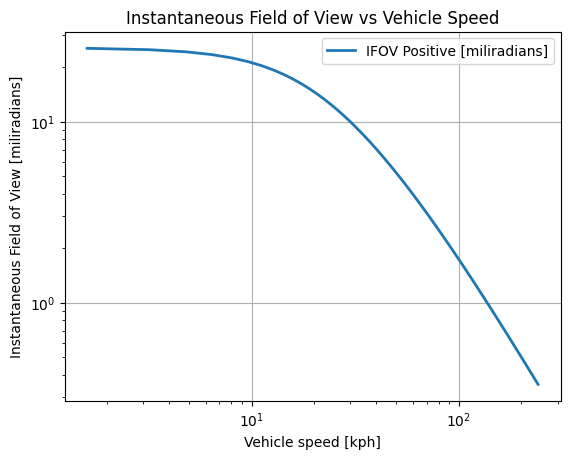
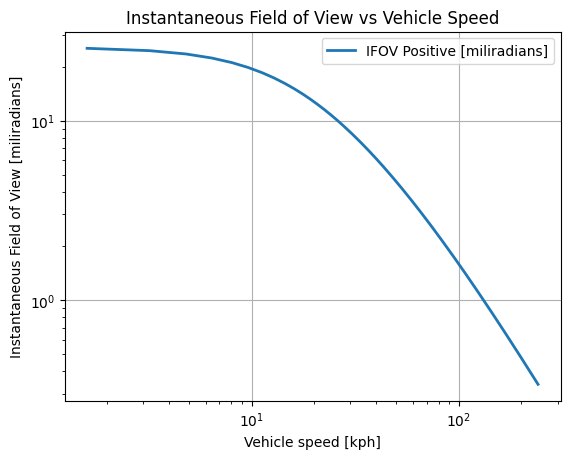
added functional calculate distance

diff --git a/lookahead_calculator.py b/lookahead_calculator.py
@@ -1,5 +1,3 @@
-# lookahead_calculator.py
-
 import numpy as np
 import matplotlib.pyplot as plt
 import torch
@@ -8,23 +6,28 @@ from detr.model_loader import load_detr_model
 import os
 from matplotlib import cm
 
+# Cargar el modelo (si es necesario para procesamiento adicional)
 model = load_detr_model()
 
-def calculate_lookahead_distance(mu, t, l, B, image_path=None):
-    # Parámetros fijos para el modelo
+# Asegurarse de que exista el directorio de salida
+output_directory = 'outputs'
+if not os.path.exists(output_directory):
+    os.makedirs(output_directory)
+
+def calculate_lookahead_distance(mu, t, l, B, cog, wheelbase, turning_angle, image_path=None):
+    # Parámetros fijos para el modelo (algunos se han convertido en parámetros de la función)
     g = 9.81
-    a = -9
-    Tper = 0.1
-    Tact = 0.25
-    d_offset = 2
-    w = 1.82
-    cog = 0.767
-    turningCar = 7.62
+    a = -9  # Desaceleración durante el frenado [m/s^2]
+    Tper = t  # Tiempo de percepción
+    Tact = l  # Latencia
+    d_offset = B  # Distancia buffer [m]
+    w = wheelbase  # Ancho del vehículo
+    turningCar = turning_angle  # Ángulo de giro del vehículo
 
     # Rangos de velocidad
-    v_mph = np.arange(1, 151)
-    v_kph = v_mph * 1.609
-    v_mtps = v_mph * (1609.34 / 3600)
+    v_mph = np.arange(1, 151)  # Velocidades de 1 a 150 mph
+    v_kph = v_mph * 1.609  # Conversion de mph a kph
+    v_mtps = v_mph * (1609.34 / 3600)  # Conversion de mph a metros por segundo
 
     # Inicializar distancias para la primera gráfica
     d_per = np.zeros_like(v_mtps)
@@ -39,15 +42,15 @@ def calculate_lookahead_distance(mu, t, l, B, image_path=None):
 
     # Calcular las distancias de frenado y maniobra para la primera gráfica
     for v in range(1, 151):
-        d_per[v-1] = v_mtps[v-1] * (2 * Tper)
-        d_act[v-1] = v_mtps[v-1] * Tact
-        d_brake[v-1] = -v_mtps[v-1]**2 / (2 * a)
-        d_look_stop[v-1] = d_offset + d_per[v-1] + d_act[v-1] + d_brake[v-1]
-        K_roll[v-1] = (g * (w / 2)) / (cog * v_mtps[v-1]**2)
-        K_slip[v-1] = (mu * g) / (v_mtps[v-1]**2)
-        turning[v-1] = max(1 / (min(K_roll[v-1], K_slip[v-1])), turningCar)
-        d_swerve[v-1] = np.real(np.sqrt(turning[v-1]**2 - (turning[v-1] - w)**2))
-        d_look_swerve[v-1] = d_offset + d_per[v-1] + d_act[v-1] + d_swerve[v-1]
+        d_per[v - 1] = v_mtps[v - 1] * (2 * Tper)
+        d_act[v - 1] = v_mtps[v - 1] * Tact
+        d_brake[v - 1] = -v_mtps[v - 1] ** 2 / (2 * a)
+        d_look_stop[v - 1] = d_offset + d_per[v - 1] + d_act[v - 1] + d_brake[v - 1]
+        K_roll[v - 1] = (g * (w / 2)) / (cog * v_mtps[v - 1] ** 2)
+        K_slip[v - 1] = (mu * g) / (v_mtps[v - 1] ** 2)
+        turning[v - 1] = max(1 / (min(K_roll[v - 1], K_slip[v - 1])), turningCar)
+        d_swerve[v - 1] = np.real(np.sqrt(turning[v - 1] ** 2 - (turning[v - 1] - w) ** 2))
+        d_look_swerve[v - 1] = d_offset + d_per[v - 1] + d_act[v - 1] + d_swerve[v - 1]
 
     # Generar la primera gráfica (Lookahead Distance)
     plt.figure(figsize=(10, 6))
@@ -65,14 +68,14 @@ def calculate_lookahead_distance(mu, t, l, B, image_path=None):
 
     # Variables y cálculos para la segunda gráfica (AOV)
     HFOV = np.zeros_like(v_mtps)
-    hc = 2
-    thetaSlope = np.deg2rad(15)
+    hc = 2  # Altura del centro de gravedad [m]
+    thetaSlope = np.deg2rad(15)  # Ángulo de la pendiente
     thetaMin = np.arctan(hc / d_look_stop)
     thetaMax = np.arctan(hc / d_offset)
     VFOV = 2 * thetaSlope + np.minimum(thetaMin, thetaMax)
 
     for v in range(1, 101):
-        HFOV[v-1] = d_look_stop[v-1] / turning[v-1]
+        HFOV[v - 1] = d_look_stop[v - 1] / turning[v - 1]
 
     # Generar la segunda gráfica (Angle of View)
     plt.figure(figsize=(10, 6))
@@ -90,9 +93,9 @@ def calculate_lookahead_distance(mu, t, l, B, image_path=None):
     # Gráfico de IFOV para obstáculos positivos
     hp = 0.1  # Altura del obstáculo positivo
     IFOVp = np.arctan(hc / d_look_stop) - np.arctan((hc - hp) / d_look_stop)
-    
+
     plt.figure()
-    plt.plot(v_kph, (IFOVp * 10**3), linewidth=2, label= 'IFOV Positive [miliradians]')
+    plt.plot(v_kph, (IFOVp * 10 ** 3), linewidth=2, label='IFOV Positive [miliradians]')
     plt.xlabel('Vehicle speed [kph]')
     plt.ylabel('Instantaneous Field of View [miliradians]')
     plt.title('Instantaneous Field of View vs Vehicle Speed')
@@ -115,7 +118,7 @@ def calculate_lookahead_distance(mu, t, l, B, image_path=None):
     plt.figure()
     colors = cm.get_cmap('viridis', len(hp_values))
     for i, hp in enumerate(hp_values):
-        plt.plot(stoppingDistance, IFOVp[i, :] * 10**3, color=colors(i), linewidth=2)
+        plt.plot(stoppingDistance, IFOVp[i, :] * 10 ** 3, color=colors(i), linewidth=2)
 
     plt.xscale('log')
     plt.yscale('log')
@@ -123,7 +126,7 @@ def calculate_lookahead_distance(mu, t, l, B, image_path=None):
     plt.title('Positive Obstacle IFOV')
     plt.xlabel('Sensor distance to the scene [m]')
     plt.ylabel('IFOV [milliradians]')
-    plt.ylim([10**-4, 10**3])
+    plt.ylim([10 ** -4, 10 ** 3])
     hp_labels = [f'{h:.1f}' for h in hp_values]
     plt.legend(hp_labels, title="Object size [m]", loc='lower left')
     plt.tight_layout()
@@ -131,6 +134,7 @@ def calculate_lookahead_distance(mu, t, l, B, image_path=None):
     plt.savefig(plot_path4, bbox_inches="tight")
     plt.close()
 
+    # Detección opcional si se proporciona una imagen
     if image_path is not None:
         image, image_tensor = preprocess_image(image_path)
         with torch.no_grad():

diff --git a/app.py b/app.py
@@ -1,3 +1,5 @@
+#app.py
+
 import sys
 import os
 import torch
@@ -163,7 +165,12 @@ def calculate_distance(mu, t, l, B, turning_car, cog, wheelbase):
         turning_angle=turning_car,
         image_path=None  # Si necesitas una imagen de referencia, pásala aquí
     )
-    return plot_path1, plot_path2, plot_path3, plot_path4
+    return (
+        gr.update(value=plot_path1, visible=True),
+        gr.update(value=plot_path2, visible=True),
+        gr.update(value=plot_path3, visible=True),
+        gr.update(value=plot_path4, visible=True)
+    )
 
 # Diseño de la interfaz de Gradio
 class Seafoam(Base):
@@ -280,7 +287,7 @@ with gr.Blocks(theme=seafoam) as demo:
         run_button.click(object_detection_with_disparity, outputs=[detect_output_image, detect_output_text])
 
     with gr.Tab("Calculate Distance"):
-        gr.Markdown("## Sección de calculo de la distancia segura")
+        gr.Markdown("## Safe distance calculation section")
         with gr.Row():
             with gr.Column():
                 mu = gr.Slider(0.0, 1.0, value=0.3, step=0.01, label="Coeficiente de fricción (mu)")
@@ -293,11 +300,14 @@ with gr.Blocks(theme=seafoam) as demo:
                 wheelbase = gr.Slider(0.0, 3.0, value=1.5, step=0.01, label="Width of Wheelbase [m]")
 
         # Organizar las gráficas en dos filas
-        distance_plot1 = gr.Image(type="filepath", label="Gráfica de distancia segura", visible=False)
-        distance_plot2 = gr.Image(type="filepath", label="Gráfica del ángulo de visión", visible=False)
-        distance_plot3 = gr.Image(type="filepath", label="Campo de visión Instantaneo Positivo [miliradianes]", visible=False)
-        distance_plot4 = gr.Image(type="filepath", label="Campo de visión instantaneo para los obstáculos", visible=False)
-        
+        with gr.Row():
+            with gr.Column():
+                distance_plot1 = gr.Image(type="filepath", label="Gráfica de distancia segura", visible=False)
+                distance_plot3 = gr.Image(type="filepath", label="Campo de visión Instantaneo Positivo [miliradianes]", visible=False)
+            with gr.Column():
+                distance_plot2 = gr.Image(type="filepath", label="Gráfica del ángulo de visión", visible=False)
+                distance_plot4 = gr.Image(type="filepath", label="Campo de visión instantaneo para los obstáculos", visible=False)
+                
         run_button = gr.Button("Calculate Distance")
         run_button.click(calculate_distance, inputs=[mu, t, l, B, turning_car, cog, wheelbase], outputs=[distance_plot1, distance_plot2, distance_plot3, distance_plot4])
 
